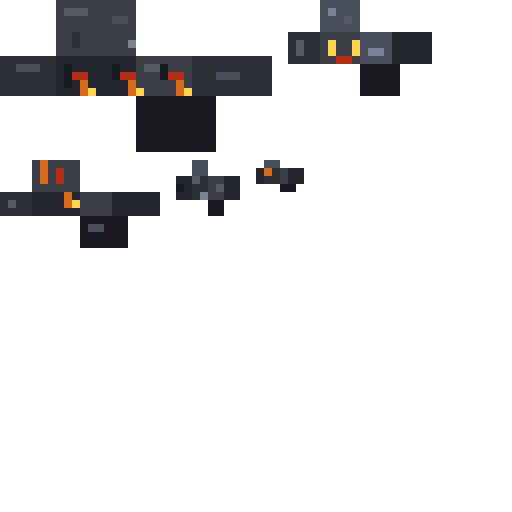
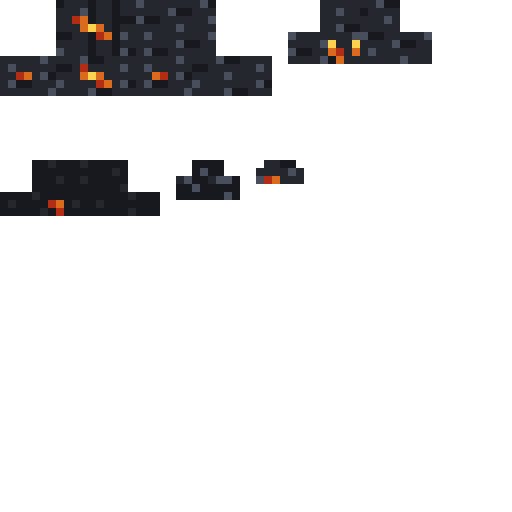
Fix Rastejante de Cinza UV texture atlas

diff --git a/visual_studies/inimigos/terras_da_cinza/rastejante_de_cinza_uv.md b/visual_studies/inimigos/terras_da_cinza/rastejante_de_cinza_uv.md
@@ -1,4 +1,4 @@
-# UV — Rastejante de Cinza v0.1
+# UV — Rastejante de Cinza v0.2
 
 Textura 64 x 64 px, com fundo transparente. O atlas foi organizado para cubos de modelo Java Fabric usando CubeListBuilder.texOffs(u, v).addBox(x, y, z, width, height, depth). A frente do mob aponta para +Z.
 
@@ -10,13 +10,13 @@ Textura 64 x 64 px, com fundo transparente. O atlas foi organizado para cubos de
 | Pernas (seis, atlas compartilhado) | 2 x 3 x 2 | (22, 20) |
 | Mandíbulas (par, atlas compartilhado) | 2 x 2 x 1 | (32, 20) |
 
-Cada caixa usa o desdobramento padrão do Minecraft: topo, base e faixa das faces laterais, frontal e traseira. Pernas e mandíbulas reutilizam os pixels; podemos dar UVs próprios se quisermos assimetria.
+Cada caixa usa o desdobramento padrão do Minecraft: topo, base e faixa das faces laterais, frontal e traseira. Pernas e mandíbulas reutilizam os pixels; podemos dar UVs próprios se quisermos assimetria. Nesta versão, todas as faces das caixas receberam pixels opacos para evitar áreas vazias no modelo. Os olhos foram colocados na face frontal (+Z) da cabeça; as fissuras de brasa aparecem no topo e na frente da carapaça.
 
 As fissuras luminosas ficam na frente da carapaça. Os olhos amarelos estão na face frontal da cabeça. Topo e laterais usam tons variados de basalto; abdômen e juntas recebem reflexos menores de brasa.
 
 ## Uso futuro
 
-Use atlas 64 x 64 e os offsets da tabela ao criar cada CubeListBuilder. As dimensões e UV formam uma proposta inicial de modelo, ainda não uma entidade implementada. Ao integrar, conferiremos a orientação das faces renderizadas e ajustaremos qualquer face invertida.
+Use atlas 64 x 64 e os offsets da tabela ao criar cada CubeListBuilder. O atlas do jogo e a prévia ampliada foram regenerados com esse mapeamento. A orientação das faces ainda precisa da confirmação final dentro do Minecraft.
 
 ## Estado da integracao
 
